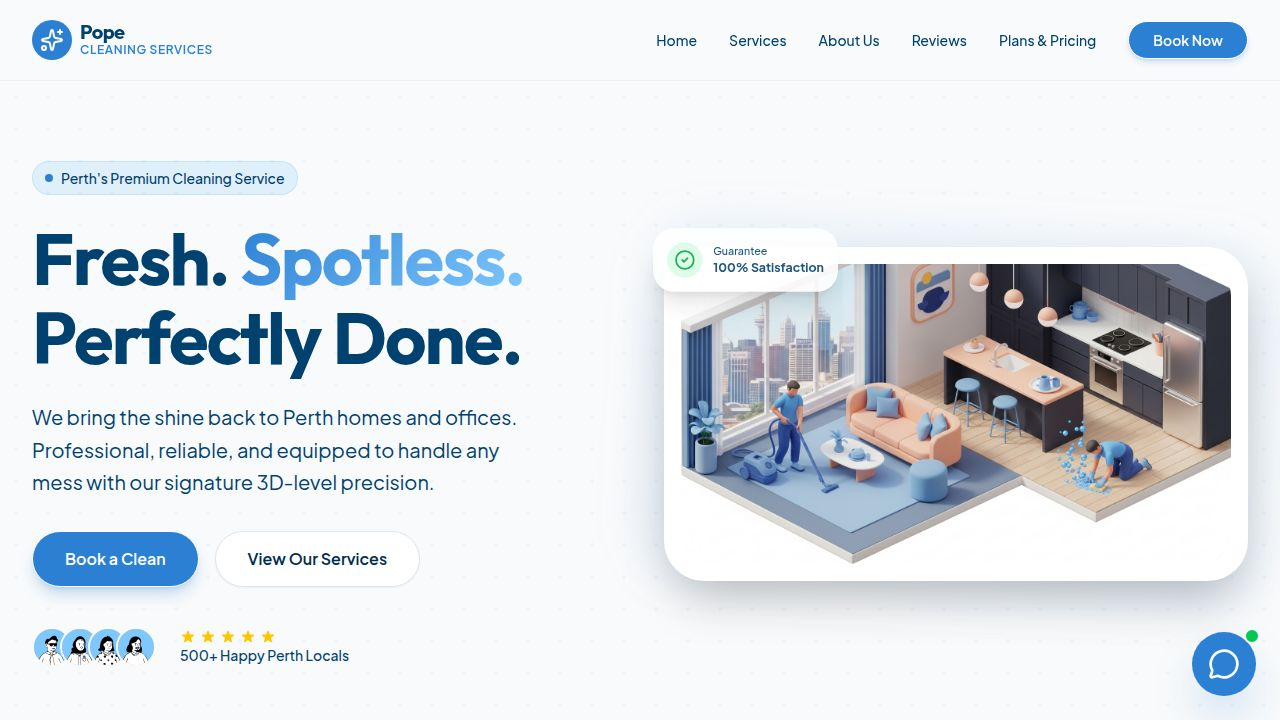
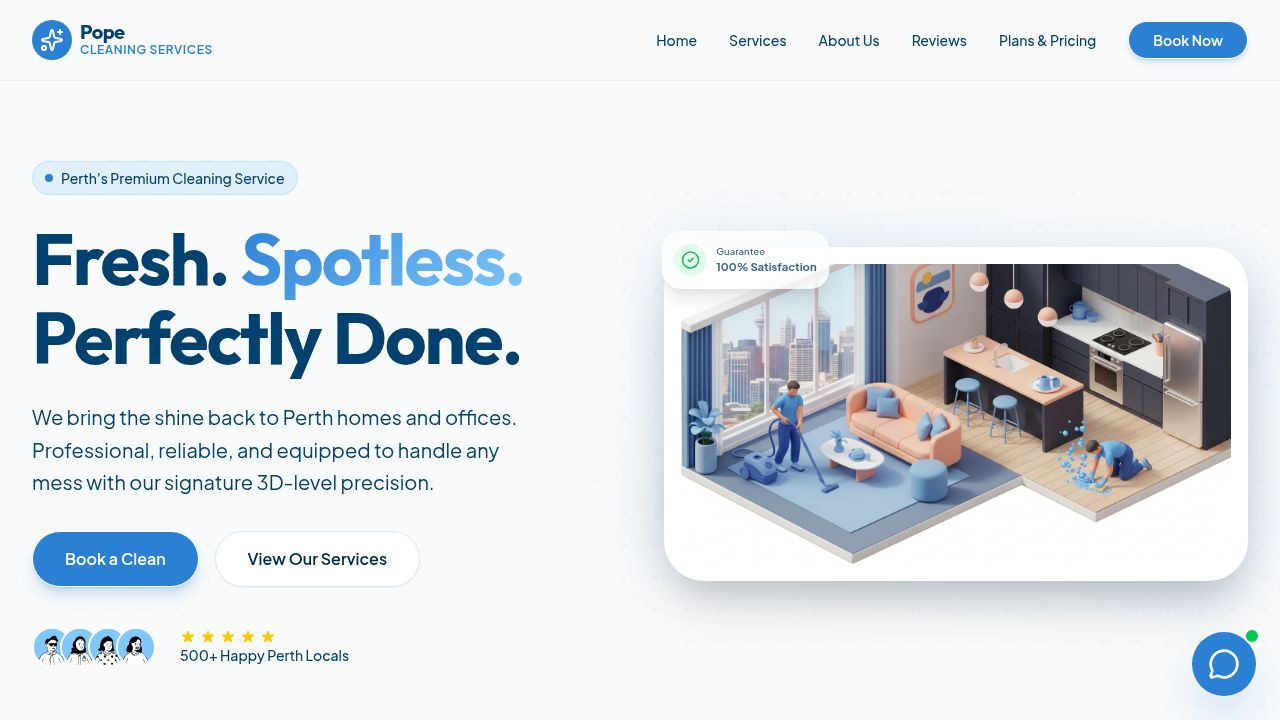
Add interactive color transition animation to booking button
Update the hero section to include a color transition animation on the "Book a Clean" button and modify the "View Our Services" button to also include a transition-colors class.

Replit-Commit-Author: Agent
Replit-Commit-Session-Id: 2a91d7d2-8a9d-43cb-a9a7-52b9b116151a
Replit-Commit-Checkpoint-Type: full_checkpoint
Replit-Commit-Event-Id: 4e409426-ae3a-415f-a109-67ecb14308e3
Replit-Commit-Screenshot-Url: https://storage.googleapis.com/screenshot-production-us-central1/b344bfab-6f91-421f-94c6-48e3dd77e76f/2a91d7d2-8a9d-43cb-a9a7-52b9b116151a/1opJvH3
Replit-Helium-Checkpoint-Created: true

diff --git a/client/src/components/home/hero.tsx b/client/src/components/home/hero.tsx
@@ -50,12 +50,12 @@ export function Hero() {
             
             <div className="flex flex-col sm:flex-row gap-4 mb-10">
               <Link href="/book">
-                <Button size="lg" className="rounded-full h-14 px-8 text-base font-semibold shadow-lg shadow-primary/25 w-full sm:w-auto">
+                <Button size="lg" className="rounded-full h-14 px-8 text-base font-semibold shadow-lg shadow-primary/25 w-full sm:w-auto hover:bg-primary/90 transition-colors">
                   Book a Clean
                 </Button>
               </Link>
               <Link href="/services">
-                <Button size="lg" variant="outline" className="rounded-full h-14 px-8 text-base font-semibold border-border bg-white hover:bg-muted/30 w-full sm:w-auto">
+                <Button size="lg" variant="outline" className="rounded-full h-14 px-8 text-base font-semibold border-border bg-white hover:bg-muted/30 w-full sm:w-auto transition-colors">
                   View Our Services
                 </Button>
               </Link>
